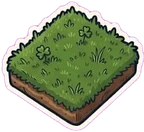
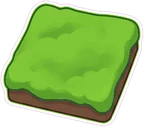
Acción automática: Archivos descomprimidos

diff --git a/js/games/bombardeo/index.js b/js/games/bombardeo/index.js
@@ -10,7 +10,7 @@ const carita = (fin, pulsando) => IMG(fin === 'gana' ? 'ok' : fin === 'pierde' ?
 let S = null, nivel = 'medio', api = null, asp = null, root = null, crono = null, cel = [], cache = crearCache(), modo = 'abrir', pst = null, pstT = null, press = null, onKey = null, pulsando = false, ultLargo = 0;
 
 /* ---------- Apariencia · Área (imagen de las casillas ocultas; el CSS la aplica por data-area) ---------- */
-const AREAS = [['cesped', 'Césped'], ['tablas', 'Tablas'], ['losas', 'Losas'], ['rocas', 'Rocas'], ['hielo', 'Hielo'], ['tierra', 'Tierra'], ['arena', 'Arena'], ['nieve', 'Nieve'], ['musgo', 'Musgo']];
+const AREAS = [['cesped', 'Césped'], ['tablas', 'Tablas'], ['losas', 'Losas'], ['rocas', 'Rocas'], ['tierra', 'Tierra'], ['arena', 'Arena'], ['nieve', 'Nieve'], ['musgo', 'Musgo']];
 const grupoArea = () => ({ clave: 'area', titulo: 'Área', icono: '🧱', ventana: true, forma: 'figura', def: 'cesped', opciones: AREAS.map(([id, nombre]) => ({ id, nombre, img: `img/bombardeo/area/${id}.webp` })) });
 
 /* ---------- validación / resumen ---------- */

diff --git a/js/games/bombardeo/bombardeo.css b/js/games/bombardeo/bombardeo.css
@@ -44,7 +44,6 @@
 .juego-bombardeo[data-area="tablas"] .bc.h{background-image:url(../../../img/bombardeo/area/tablas.webp)}
 .juego-bombardeo[data-area="losas"] .bc.h{background-image:url(../../../img/bombardeo/area/losas.webp)}
 .juego-bombardeo[data-area="rocas"] .bc.h{background-image:url(../../../img/bombardeo/area/rocas.webp)}
-.juego-bombardeo[data-area="hielo"] .bc.h{background-image:url(../../../img/bombardeo/area/hielo.webp)}
 .juego-bombardeo[data-area="tierra"] .bc.h{background-image:url(../../../img/bombardeo/area/tierra.webp)}
 .juego-bombardeo[data-area="arena"] .bc.h{background-image:url(../../../img/bombardeo/area/arena.webp)}
 .juego-bombardeo[data-area="nieve"] .bc.h{background-image:url(../../../img/bombardeo/area/nieve.webp)}

diff --git a/js/version.js b/js/version.js
@@ -1,5 +1,5 @@
 // Versión de JugamiGO. Se muestra al pie de ⚙ Ajustes.
 // Al publicar cambios: sube el número aquí y añade una entrada en «Historial de versiones» del README.md.
 // MAYOR (cambios grandes en toda la app) · MENOR (juegos o funciones nuevas) · PARCHE (arreglos)
-export const VERSION = '3.100.0';
+export const VERSION = '3.100.1';
 export const FECHA = '2026-11-22';

diff --git a/sw.js b/sw.js
@@ -1,6 +1,6 @@
 // Service worker: guarda la app en caché para que funcione sin conexión.
 // La lista de archivos y VERSION se regeneran con:  python tools/generar_sw.py
-const VERSION = 'jr-dcbca8717f';
+const VERSION = 'jr-c96b4cc8dd';
 const ARCHIVOS = [
 /*ARCHIVOS-INICIO*/
 './',

diff --git a/README.md b/README.md
@@ -1,4 +1,4 @@
-# JugamiGO 3.100.0
+# JugamiGO 3.100.1
 
 55 juegos (40 fichas, con once parejas y dos tríos agrupados) en 5 categorías: Sudoku, Nonogram, Bombardeo, Calcudoku, CruciSumas, Encajados, Deslizadas, Código Cifrado, Puentes Hashi, Match-Up (Lógica) · Damas, Ajedrez, Batalla Naval, Rummy Tile, Juego de la Oca, Partxis, Magnate Urbano, Hotel (tablero 3D), 3 en raya, Cuatro en Línea, Dominó, ¿Qué cara tienes?, Bingo Live, Bingo Mobile (Tablero) · BlackJack, Klondike, Spider y Carta Blanca (Solitarios), Texas Hold'em, Póker cubierto, Corazones, Brisca, Chinchón, Mus, Cinquillo, Hijoputa, Continental (Cartas) · Sopa de letras, Crucigramas, El Ahorcado, Ruleta Millonaria, El Rosco, Encadenadas, Números y Letras, Palabras Cruzadas, Trivia Quesitos (Palabras) · Serpiente, Vuela Alto, Quantix, Bloques, Rompe-Ladrillos, Air Hockey, Billar, Guerra de Orugas y Catapulta (Arcade).
 
@@ -276,6 +276,7 @@ Formato MAYOR.MENOR.PARCHE: MAYOR = cambios grandes en toda la app · MENOR = ju
 | **3.99.8** | 22/11/2026 | 🔊 **Sonidos** elegidos en el Laboratorio de sonidos: Click («Burbuja»), Mover («Clac doble»), Error («Uh-oh»), Victoria («Fanfarria») y Tic («Metrónomo»). El resto de sonidos se mantienen. |
 | **3.99.9** | 22/11/2026 | 🚫 Los **botones, fichas, menús, enlaces y rótulos de control** ya no se pueden seleccionar (ya no aparece el selector de texto ni el menú «Copiar / Buscar» al mantener pulsado). Los textos de lectura (reglas, notas…) siguen siendo seleccionables. |
 | **3.100.0** | 22/11/2026 | 💣 **Bombardeo**: 4 tapetes nuevos con versión de día y de noche (Desierto, Lago Helado, Infierno, Isla); los de día solo en modo Claro y los de noche solo en modo Nocturno, como los colores de tablero. Nueva opción **Área** en Apariencia: imagen de las casillas ocultas (Césped, Tablas, Losas, Rocas, Hielo, Tierra, Arena, Nieve, Musgo). **Bandera**: al mantener pulsada una casilla aparece y se queda al soltar (el móvil lanzaba además el menú contextual, que la quitaba). |
+| **3.100.1** | 22/11/2026 | 💣 **Bombardeo · Área**: el Césped tiene ahora la misma forma, ángulo y contorno que el resto de casillas, y se retira «Hielo» (quedan 8 opciones). |
 | 3.5.1 | 23/10/2026 | 🪱 Worms: los avatares de Apariencia se ven sólidos (sobre un disco blanco con el color del equipo), el salto alto se puede dirigir (recto, o inclinado si mantienes ◀ ▶) y en el aire ◀ ▶ empujan al gusano; botones inferiores (Pasar turno, Nueva partida, Apariencia, Salir) y menú de ajustes sin fondo de imagen. 🎱 Billar: nueva **bola de efecto** en el panel de tiro para elegir dónde das a la blanca (alto: sigue tras el choque · bajo: retrocede · izquierda/derecha: efecto lateral que cambia el rebote en banda). |
 | 3.5.0 | 23/10/2026 | 🪱 **Worms** (Arcade, juego 40 y último): ver la descripción de arriba. Nuevos tapetes-escenario (Bosque, Ciudad, Estadio, Desierto, Espacio, Infierno, Lago y Medieval; ahora 20 en total) disponibles en «Tapetes» y «Fondo de Tablero» de todos los juegos. Nuevos sonidos (explosión, disparo, chapuzón…). Se retira una carpeta sobrante del Minigolf. |
 | 3.4.0 | 23/10/2026 | 🔡 **Scrabble** (Palabras, juego 39): tablero clásico de premios, 100 fichas en español con CH/LL/RR y comodines, de 2 a 4 jugadores contra la CPU (Fácil, Medio, Difícil) o entre personas, vista previa de palabras y puntos antes de jugar, pista, cambiar fichas, historial de jugadas y 🎨 Apariencia (fondo con todos los tapetes, tablero, fichas y rótulos). |
